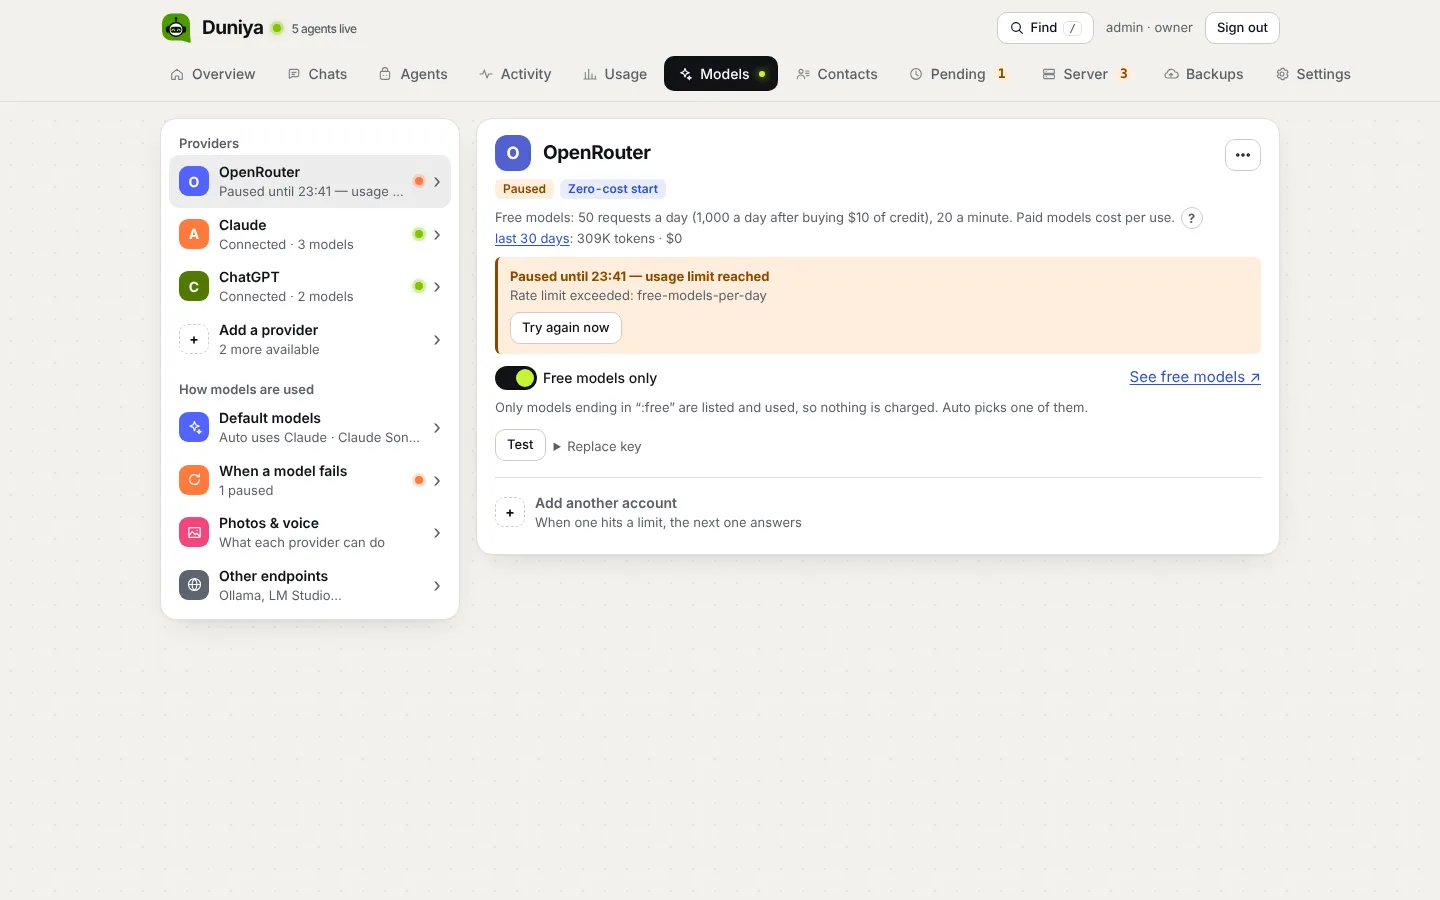
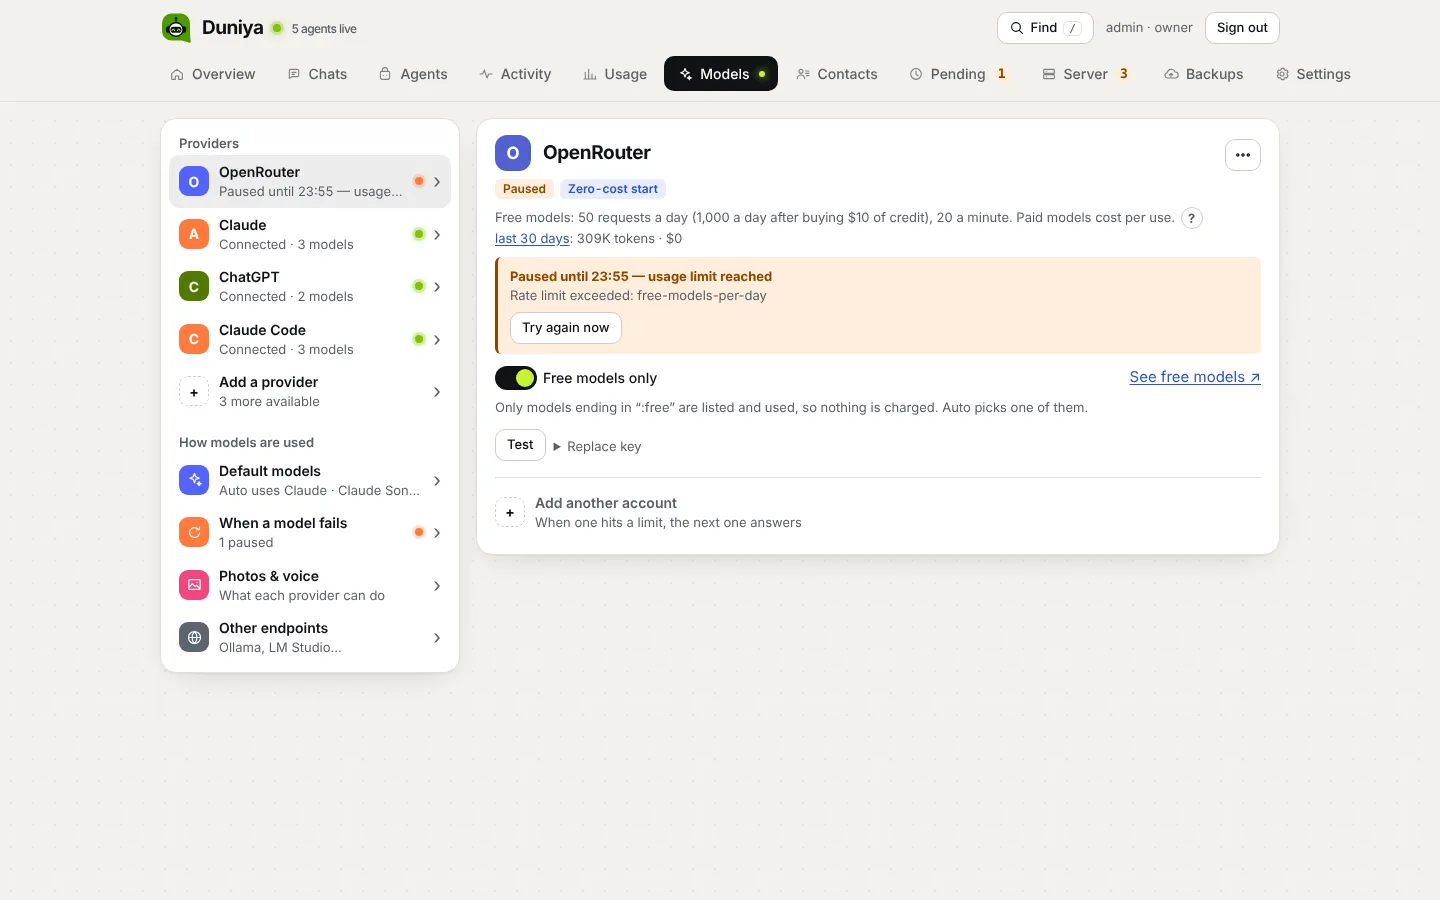
Spec 074, docs, screenshots, version 2.34.0 and release notes

diff --git a/docs/site/index.html b/docs/site/index.html
@@ -92,7 +92,7 @@
     </div>
     <ol class="steps">
       <li class="step"><span class="led dot" aria-hidden="true"></span><h3>Install</h3><p>One click on the Oracle Cloud or Google Cloud free tier, or one command on any Ubuntu/Debian server. You get an HTTPS address and a setup code.</p></li>
-      <li class="step"><span class="led dot" aria-hidden="true"></span><h3>Link WhatsApp and a model</h3><p>Scan a QR code with a spare number. Paste any model key, sign in with your ChatGPT plan, or start free with OpenRouter.</p></li>
+      <li class="step"><span class="led dot" aria-hidden="true"></span><h3>Link WhatsApp and a model</h3><p>Scan a QR code with a spare number. Paste any model key, use your ChatGPT or Claude plan, or start free with OpenRouter.</p></li>
       <li class="step"><span class="led dot" aria-hidden="true"></span><h3>Pick an agent, switch a chat on</h3><p>Tap a template (Car pooling, Family, School friends…) or describe one. Switch a group on and people write <code>!rides</code> or @mention it.</p></li>
     </ol>
   </div>
@@ -255,10 +255,10 @@
     </div>
     <div class="qa">
       <details open><summary>Is this the official WhatsApp Business API?</summary><p>No. Duniya links to a normal WhatsApp number as a linked device (like WhatsApp Web) with the open-source Baileys library. That keeps it free and simple, but unofficial clients can be banned, so use a dedicated number. Agents only reply when addressed and are rate-limited.</p></details>
-      <details><summary>What does it cost?</summary><p>The software is free and open source; the server can be free on Oracle Cloud or Google Cloud. For models, use OpenRouter's free models, your ChatGPT plan or Copilot, or pay per use with an API key. Usage shows tokens and cost, and monthly spending caps stop surprises.</p></details>
+      <details><summary>What does it cost?</summary><p>The software is free and open source; the server can be free on Oracle Cloud or Google Cloud. For models, use OpenRouter's free models, your ChatGPT, Claude or Copilot plan (through the official Codex, Claude Code or Copilot app on your server), or pay per use with an API key. Usage shows tokens and cost, and monthly spending caps stop surprises.</p></details>
       <details><summary>Will people in the group know there is an assistant?</summary><p>Yes. When you switch a group on, the number posts a short privacy notice once (your text, per-group opt-out), and a person's first direct reply gets one line. Agents only answer when someone addresses them.</p></details>
       <details><summary>Who can see the messages?</summary><p>Only chats you switched on are stored, for the agent's memory, and old messages are pruned by themselves. Owners and admins can read what was stored; every look is in the activity log. Chats marked <i>Private to members</i> are hidden from your assistant and from search.</p></details>
-      <details><summary>Can I use my Claude Pro/Max subscription?</summary><p>No: Anthropic's terms don't allow third-party apps to use Claude subscriptions, so Claude needs an API key. ChatGPT plans work through OpenAI's official sign-in flow.</p></details>
+      <details><summary>Can I use my Claude Pro/Max subscription?</summary><p>Yes, through Claude Code: Duniya runs Anthropic's own, unmodified Claude Code app on your server, signed in with your own account (a token from <code>claude setup-token</code>), for your personal use within your plan's limits. Your ChatGPT plan works the same way through Codex (or OpenAI's Sign in with ChatGPT), and Copilot through GitHub's SDK, also on a 1 GB server. <a href="https://github.com/vikramgorla/whatsapp-agent-duniya/blob/main/docs/models.md#agent-apps">What the terms say</a>.</p></details>
       <details><summary>Do I need to know Linux?</summary><p>No. The Oracle and Google buttons need no terminal skills, and afterwards updates, OS packages, logs, restarts and backups are buttons in the panel.</p></details>
       <details><summary>Can several people manage it?</summary><p>Yes: owners, admins and viewers, with passwords or Sign in with Google. You can also manage it from ChatGPT or Claude, with the same roles and a confirmation for risky actions.</p></details>
       <details><summary>How do I report a security issue?</summary><p>Privately, through GitHub's “Report a vulnerability” on the repository; see <a href="https://github.com/vikramgorla/whatsapp-agent-duniya/blob/main/SECURITY.md">SECURITY.md</a>.</p></details>

diff --git a/src/panel/public/app/start.js b/src/panel/public/app/start.js
@@ -42,9 +42,10 @@ export function linkNumberBox(n) {
       h('button', { class: 'btn', onclick: () => tryApi(async () => { const r = await api('POST', '/api/whatsapp/pair', { number: n.id, phone: phone.value }); S.overviewBusy = false; toast(`Pairing code: ${r.code}`); refreshStatus(); }) }, 'Get code')),
     n.pairingCode ? h('p', {}, 'In WhatsApp → Linked devices → Link with phone number instead, enter ', h('span', { class: 'code' }, n.pairingCode)) : null);
 }
-/** 062: one box for any key: OpenRouter, Anthropic, OpenAI or a GitHub token for Copilot, recognised by how it starts. */
+/** 062: one box for any key: OpenRouter, Anthropic, OpenAI, a GitHub token for Copilot or a Claude Code token (074), recognised by how it starts. */
 const KEY_KINDS = [
   [/^sk-or-/, PROVIDER_NAMES.openrouter, (key) => api('POST', '/api/providers/openrouter', { key, freeOnly: true })],
+  [/^sk-ant-oat01-/, PROVIDER_NAMES.claudecode, (token) => api('POST', '/api/providers/claudecode', { token })], // 074: a Claude plan token
   [/^sk-ant-/, PROVIDER_NAMES.anthropic, (key) => saveSecretKey('ANTHROPIC_API_KEY')(key)],
   [/^github_pat_/, PROVIDER_NAMES.copilot, (token) => api('POST', '/api/providers/copilot', { token })],
   [/^sk-/, PROVIDER_NAMES.openai, (key) => saveSecretKey('OPENAI_API_KEY')(key)],

diff --git a/specs/074-agent-apps/spec.md b/specs/074-agent-apps/spec.md
@@ -1,0 +1,42 @@
+# 074 · Agent apps: your Claude, ChatGPT and Copilot plans through their official apps
+
+Issue #156 · version 2.34.0
+
+## Why
+
+The owner uses Duniya personally and already pays for Claude, ChatGPT and GitHub Copilot plans. Claude could only be
+used with an API key, ChatGPT only through the Responses API sign-in, and Copilot was refused below 2 GB of memory, so
+the typical 1 GB server could not use it. Agent Durbar (the owner's desktop app) drives the official apps (Claude
+Code, Codex, the Copilot SDK); Duniya should do the same on the server, and still fit a 1 GB / 1 vCPU VM.
+
+## User stories
+
+1. **As the owner, I connect my Claude Pro/Max plan** by pasting the token from `claude setup-token`; Duniya downloads
+   Claude Code, checks the token with one tiny answer and keeps it as a secret.
+2. **I connect my ChatGPT plan through Codex** with its own device sign-in: the panel shows a link and a one-time
+   code, and updates by itself when I am done. The account (email · plan) is shown to me only.
+3. **My agents keep their tools and rules**: WhatsApp actions and tool services work; roles, the confirm gate and
+   activity stay in Duniya; the apps get no shell, files or web.
+4. **It runs on my 1 GB server** with Small server mode: one app at a time, only with enough free memory, nothing
+   running between answers; a usage limit pauses the account until the reset and the next model answers.
+
+## Requirements
+
+- R1 Providers `claudecode` (*Claude Code*) and `codex` (*Codex*) in Models (names.js), owner only, one account each;
+  GitHub Copilot keeps its token sign-in and follows the same app rules.
+- R2 On-demand install: npm into `DATA_DIR/apps/<id>` when connected; refused with a clear message when free memory
+  (< 380 MB) or disk (< 1.2 GB) is short. Disconnect removes the download and the sign-in.
+- R3 Small servers: agent apps only with Small server mode (the shared `smallServerCheck`); one app turn at a time
+  (2 / 3 on medium / large); a waiting turn gets ⏳ and fails over after 2 minutes; a memory check (need + 80 MB)
+  before every start; refusals are `unavailable` (next model, no pause). The old 2 GB rule for Copilot is removed.
+- R4 Per-turn processes: started for a turn, ended with it; abandoned turns (tool calls unanswered for 3 minutes) and
+  idle resident runtimes (Copilot: 2 minutes on small servers, 10 otherwise, at once under memory pressure) are
+  stopped from the upkeep tick — no new timers per feature.
+- R5 Tools through a per-turn MCP bridge on 127.0.0.1 (random token); calls return to the runner as tool_use blocks.
+  Claude Code: `--tools ""`, `--strict-mcp-config`, `--setting-sources ""`, `--permission-mode dontAsk`, no session
+  files. Codex: `exec --json --ephemeral -s read-only`, shell/patch/web/plugin/skill tools off, a model catalog
+  without tool search. System prompts go in a private file, never on the command line.
+- R6 Usage limits: Claude Code's `rate_limit_event` (rejected, resetsAt) and Codex's usage-limit failure pause the
+  account (quota) until the reset; sign-in errors mark it for reconnect.
+- R7 Measured memory and start time per app shown on its page and in `list_model_accounts`.
+- R8 Docs: models.md *Agent apps* (connect, measured numbers, terms in plain words with sources), small-servers.md.

diff --git a/specs/074-agent-apps/plan.md b/specs/074-agent-apps/plan.md
@@ -1,0 +1,43 @@
+# 074 · Plan
+
+## Approach
+
+- `src/core/providers/apps.js`: install on demand, the slot limiter, memory checks, residents, RSS sampling
+  (`/proc/<pid>/status` of the app's process tree, read when the app writes), the generic turn (`AppTurn`) that holds
+  the app's tool calls until the runner answers them, `appsTick()` for upkeep.
+- `src/core/providers/app-bridge.js`: a minimal MCP server (Streamable HTTP, JSON answers: initialize, tools/list,
+  tools/call, ping) on 127.0.0.1, listening only while a turn is open; Bearer token per turn.
+- `claude-code.js`, `codex.js`: launch arguments, stream parsing, errors; Codex device sign-in (parse the link and code
+  from `codex login --device-auth`), account from its ID token; models: Claude Code aliases, Codex `debug models`.
+- `copilot.js`: SDK downloaded with the shared installer into `DATA_DIR/apps/copilot`; its idle timer replaced by the
+  resident rule; each conversation takes a slot; `heavyCheck` removed.
+- Routes `/api/providers/claudecode`, `/api/providers/codex/start|signin`, owner only; Getting started recognises
+  `sk-ant-oat01-` tokens.
+
+## Checked against the real apps (no account, a local stand-in model)
+
+Claude Code 2.1.326 and Codex 0.169.0 were run against a fake Anthropic / Responses endpoint and this bridge: both
+called Duniya's tool through MCP and finished the turn (Codex also in its code mode for GPT-6 models, where tools are
+called from its JS isolate). Seen: Claude Code sends only our tool (plus its deferred-tool placeholder); Codex without
+the catalog change hides MCP tools behind tool search and offers apply_patch and web search; MCP calls need
+`default_tools_approval_mode="approve"`. Error shapes: 401 → result `Failed to authenticate…`, rate limit → result
+text, plan limit → `rate_limit_event` rejected with `resetsAt`.
+
+## Measured (this sandbox, Linux x64, 2 vCPU)
+
+| App | Peak RSS while answering | Start → first request | npm download peak | Disk |
+|---|---|---|---|---|
+| Claude Code 2.1.326 | 196–203 MB | ~0.5 s (whole tiny turn 0.65 s) | 277 MB | 355 MB |
+| Codex 0.169.0 | 138–145 MB | ~0.2 s (whole turn 0.4–0.6 s) | 354 MB | 404 MB |
+| Copilot SDK 1.0.34 runtime | 59–60 MB idle | start 28 ms | 293 MB | 217 MB |
+
+## Not checked (needs real subscriptions)
+
+Real model latency and RSS with long conversations; Claude Code with a real `setup-token` token; Codex's device
+sign-in end to end and the ChatGPT backend accepting a replaced base prompt; real usage-limit messages; Copilot turns
+on a 1 GB VM.
+
+## Constitution / DoD notes
+
+No new runtime dependency (apps are downloaded on demand, like the Copilot SDK before). No new timers: per-call step
+and wait timeouts like `runJob`; idle and abandoned work through the upkeep tick.

diff --git a/docs/small-servers.md b/docs/small-servers.md
@@ -25,7 +25,7 @@ Examples: OCI `VM.Standard.E2.1.Micro`, Google `e2-micro`. Size also in `/api/st
 | Media jobs at once | 1 | 2 | 3 |
 | Local tool services | *Small server mode* only, 2 at once | 6 at once | 12 at once |
 | On-server speech | below 2 GB: *Small server mode* only | yes | yes |
-| Copilot helper | below 2 GB: no (not even with *Small server mode*) | yes | yes |
+| [Agent apps](models.md#agent-apps) (Claude Code, Codex, GitHub Copilot) | *Small server mode* only, 1 at a time | 2 at a time | 3 at a time |
 
 ## Small server mode
 
@@ -48,8 +48,9 @@ also `set_small_server_mode` for [AI assistants](admin-mcp.md), with a confirmat
 > for text. The installer's 2 GB swap is the safety net. Hosted tool services and providers are faster and safer here.
 
 > [!NOTE]
-> **Not covered:** GitHub Copilot sign-in. Its ~400 MB download and helper process run inside the app's 700 MB memory
-> cap next to the app itself, so on 1 GB they fail or get the app stopped. It stays refused below 2 GB.
+> **Agent apps** (074) are covered too: measured 140–200 MB while one answers and nothing between answers (Copilot's
+> runtime about 60 MB, stopped after 2 minutes idle), so one app next to the app (about 200 MB) fits the service's
+> 700 MB memory cap.
 
 ## The media queue
 
@@ -81,7 +82,11 @@ Max age: `MEDIA_JOB_MAX_AGE_MIN` (15). [Settings](settings.md)
   +150 MB in small server mode); otherwise the provider is used or the agent asks for text.
 - **Memory pressure** (> 70 %): summaries, on-server speech and picture creation pause (one activity entry), then
   resume.
-- **Copilot** helper (~400 MB download): refused below 2 GB, with or without Small server mode.
+- **Agent apps** ([Claude Code, Codex, GitHub Copilot](models.md#agent-apps)): only with Small server mode on a small
+  server. Downloaded when connected (needs ~380 MB free memory and 1.2 GB disk: the npm download peaks at 280–355 MB,
+  so keep the installer's 2 GB swap), started per answer after a free-memory check (the app's need + 80 MB), one at a
+  time: the next turn waits up to 2 minutes (⏳ on the message), then the next model answers. Turns nobody finished
+  and idle runtimes are stopped by the upkeep tick, and at once when memory gets tight.
 - **Local tool services** (each one an extra Node.js process): on a small server, adding or changing one is refused
   on every path (agent page → Tools, Settings → Tool services, Browse tool services, import, duplicate, AI assistants)
   with the same message, unless [Small server mode](#small-server-mode) is on. Hosted services work as usual. Over the

diff --git a/README.md b/README.md
@@ -44,7 +44,7 @@ then takes about five taps: link WhatsApp, connect a model, pick a template, swi
 <td width="25%" valign="top"><a href="docs/agents.md"><img src="docs/img/thumb-agents.webp" alt="AI helper showing a visual diff of an agent change" width="100%"></a><br><b>Agents in plain words</b><br>A template or a sentence; every change as a visual diff. Quick replies and FAQ without AI. Test before, <b>Review &amp; teach</b> after.</td>
 <td width="25%" valign="top"><a href="docs/owner-assistant.md"><img src="docs/img/thumb-ask.webp" alt="Ask box with a weekly recap" width="100%"></a><br><b>Your own assistant</b><br>Recaps, GIFs, voice and sends into your groups, in your WhatsApp or the <b>Ask</b> box. Changes wait for your OK.</td>
 <td width="25%" valign="top"><a href="docs/chats.md#search-messages-owner"><img src="docs/img/thumb-chats.webp" alt="A chat's page with its agent, Messages and Memory" width="100%"></a><br><b>Find &amp; search</b><br>Press <b>/</b> for any agent, chat or setting, or search what was said in every chat. Each chat's <b>Messages</b> and <b>Memory</b> one tap away, a page per person, answers rated right there. <i>Why didn't it answer?</i> by chat name, with a fix.</td>
-<td width="25%" valign="top"><a href="docs/models.md"><img src="docs/img/thumb-fallback.webp" alt="When a model fails: fallback settings" width="100%"></a><br><b>Any model, with a backup</b><br>OpenRouter (free models), ChatGPT plan, Claude, OpenAI, Copilot, Ollama. Photos &amp; voice. Spending caps.</td>
+<td width="25%" valign="top"><a href="docs/models.md"><img src="docs/img/thumb-fallback.webp" alt="When a model fails: fallback settings" width="100%"></a><br><b>Any model, with a backup</b><br>OpenRouter (free models), ChatGPT plan, Claude, OpenAI, Copilot, Ollama, and your Claude or ChatGPT plan through Claude Code or Codex. Photos &amp; voice. Spending caps.</td>
 </tr>
 <tr>
 <td valign="top"><a href="docs/privacy.md"><img src="docs/img/thumb-privacy.webp" alt="Privacy notice settings" width="100%"></a><br><b>Silent by default</b><br>Off chats are never stored or sent to a model; groups are told once. Tools are allowed per role, in code.</td>

diff --git a/docs/README.md b/docs/README.md
@@ -19,7 +19,7 @@
 | <img src="img/thumb-overview.webp" alt="" width="120"> | **1** | **[Install](install.md)** | you want Duniya on a server: one click on Oracle or Google Cloud, or one command |
 | <img src="img/thumb-checklist.webp" alt="" width="120"> | **2** | **[Getting started](getting-started.md)** | the panel is open: five taps to a first answer, and *Where is my panel?* |
 | <img src="img/thumb-whatsapp.webp" alt="" width="120"> | **3** | **[Connect WhatsApp](whatsapp.md)** | you link the agents' number (QR or pairing code), or add another one |
-| <img src="img/thumb-fallback.webp" alt="" width="120"> | **4** | **[Add a model](models.md)** | you connect OpenRouter, ChatGPT, Claude, OpenAI, Copilot or Ollama, with a backup model |
+| <img src="img/thumb-fallback.webp" alt="" width="120"> | **4** | **[Add a model](models.md)** | you connect OpenRouter, ChatGPT, Claude, OpenAI, Copilot, Claude Code, Codex or Ollama, with a backup model |
 | <img src="img/thumb-agents.webp" alt="" width="120"> | **5** | **[Agents](agents.md)** | you create your first agent, test it, review its answers, give it tools and quick replies |
 | <img src="img/thumb-chats.webp" alt="" width="120"> | **6** | **[Chats](chats.md)** | you switch groups on, set up a person's chat, search messages, sort out names |
 | <img src="img/thumb-ask.webp" alt="" width="120"> | **7** | **[Owner assistant](owner-assistant.md)** | you want your own agent in your WhatsApp and the Ask box: recaps, sends, alerts, weekly summary |

diff --git a/docs/getting-started.md b/docs/getting-started.md
@@ -33,7 +33,8 @@ through five steps; the one you are on opens in place:
 1. **Link your WhatsApp number**: scan the QR code with the phone of the agents' number (*WhatsApp → Settings →
    Linked devices → Link a device*), or get a pairing code. Use a number just for the agents. [Connect WhatsApp](whatsapp.md)
 2. **Connect an AI model**: paste any key into the one box: Duniya recognises OpenRouter (`sk-or-`, free models
-   only), Anthropic (`sk-ant-`), OpenAI (`sk-`) and GitHub Copilot (`github_pat_`). No key yet? **Free key from
+   only), Anthropic (`sk-ant-`), a Claude Code token from `claude setup-token` (`sk-ant-oat01-`), OpenAI (`sk-`) and GitHub Copilot
+   (`github_pat_`). No key yet? **Free key from
    OpenRouter ↗**, or **Use my ChatGPT plan**. Everything else: [Models](models.md).
 3. **Create your first agent**: tap a template (Car pooling, Family, Event planning…) or describe it in your own words
    and let the AI helper draft it. You can change everything later. [Agents](agents.md)

diff --git a/specs/074-agent-apps/tasks.md b/specs/074-agent-apps/tasks.md
@@ -1,0 +1,11 @@
+# 074 · Tasks
+
+- [x] T1 Study Agent Durbar's adapters and notes (accounts, sign-in, limits, lockdown flags); probe the real CLIs
+- [x] T2 apps.js (install, slot, memory, residents, AppTurn, appsTick) and app-bridge.js (MCP on 127.0.0.1)
+- [x] T3 Claude Code and Codex adapters; Codex device sign-in; errors → breaker (quota, auth, unavailable)
+- [x] T4 Copilot on the shared rules; heavyCheck and the 2 GB refusal removed; Small server mode covers agent apps
+- [x] T5 Routes (owner only), router ⏳ while waiting, upkeep tick, plan pricing, text-only media capability
+- [x] T6 Models pages (Claude Code paste, Codex code + link with live finish, measured line), Getting started token
+- [x] T7 Tests with a fake app and fake npm on PATH (test/agent-apps.test.js); check:responsive states
+- [x] T8 Docs: models.md Agent apps (terms with sources), small-servers.md, getting-started, admin-mcp, README, website, shots
+- [x] T9 Version 2.34.0, releases.json; PR, checks, merge, done comment

diff --git a/DESIGN.md b/DESIGN.md
@@ -188,7 +188,8 @@ Names are short and familiar, and the same everywhere: the panel, the admin MCP 
 The one source is `src/panel/public/app/names.js` (`PROVIDER_NAMES`, `accountName()`, `modelName()`). The server uses
 it for the names its API returns, and panel modules import it.
 
-- Providers: **ChatGPT**, **Claude**, **OpenAI**, **GitHub Copilot**, **OpenRouter**, and **Custom (OpenAI-compatible)**
+- Providers: **ChatGPT**, **Claude**, **OpenAI**, **GitHub Copilot**, **Claude Code**, **Codex** (agent apps, 074: the
+  app's own name, never "Claude (subscription)"), **OpenRouter**, and **Custom (OpenAI-compatible)**
   only where a generic endpoint must be named. No explanations in brackets: how you connect (sign in or key) belongs
   on the provider's page.
 - Accounts: the provider's name, with the label only when there are several accounts: "ChatGPT · work".

diff --git a/docs/models.md b/docs/models.md
@@ -50,6 +50,8 @@ Names are the same everywhere (panel, admin MCP tools, activity): *ChatGPT*, *Cl
 - A usage limit pauses the account until the reset the app reports; the next model answers meanwhile.
 - On a small server: switch on [Small server mode](small-servers.md#small-server-mode); one app answers at a time.
 
+![Codex on Models: sign in with ChatGPT, a link and a one-time code, the note on personal use](site/img/card-agent-app.webp)
+
 **Connect**
 
 | App | Sign-in | Download |
